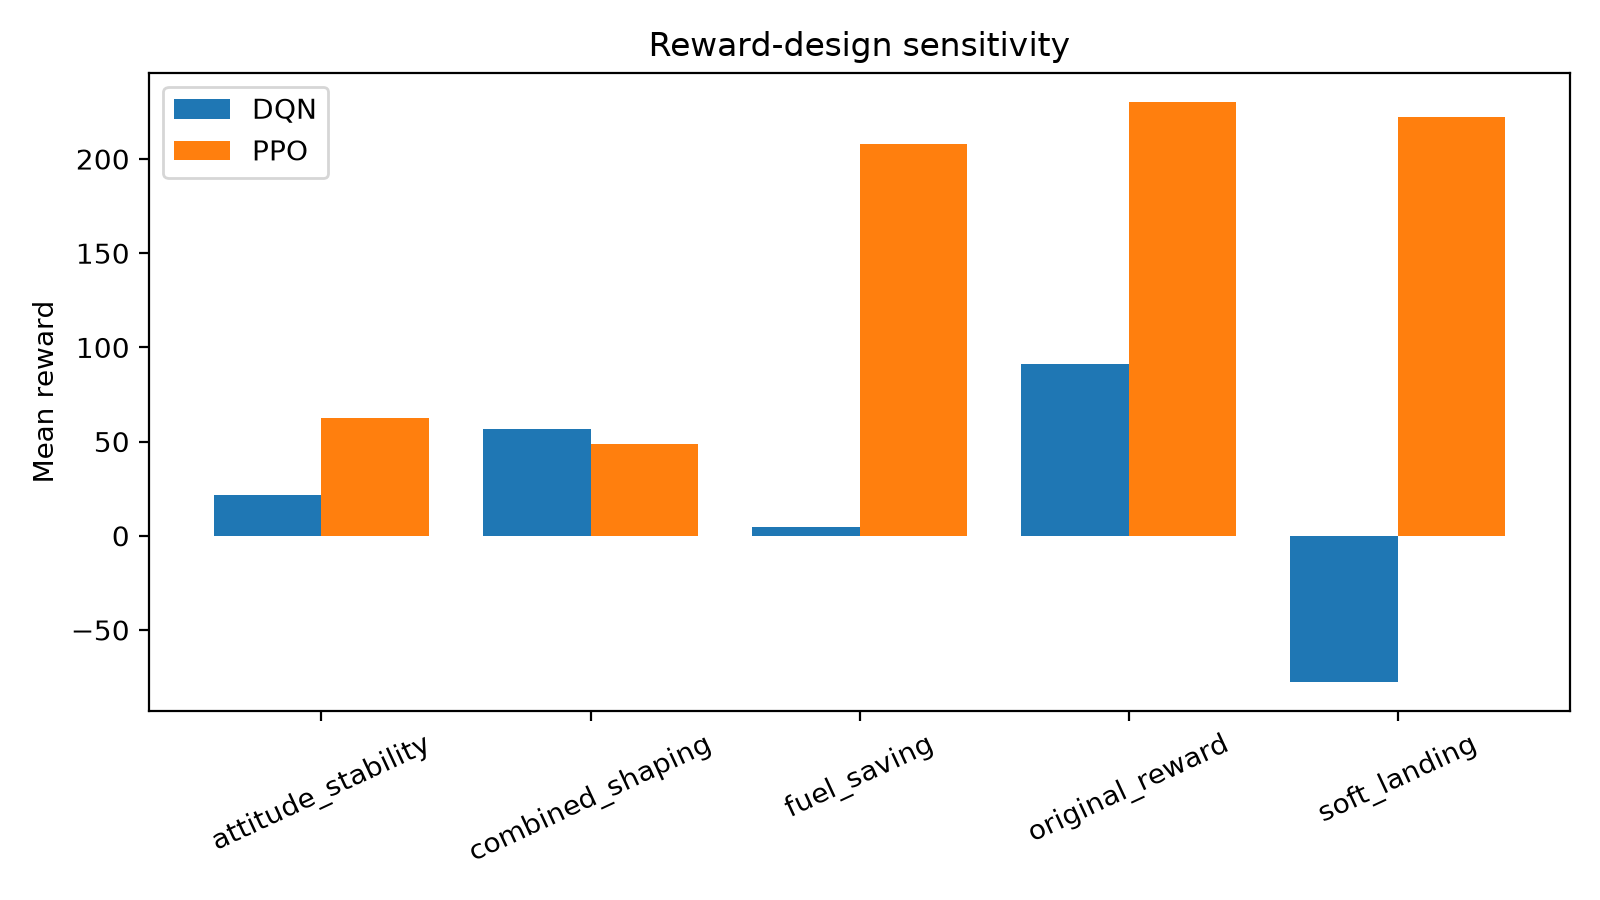
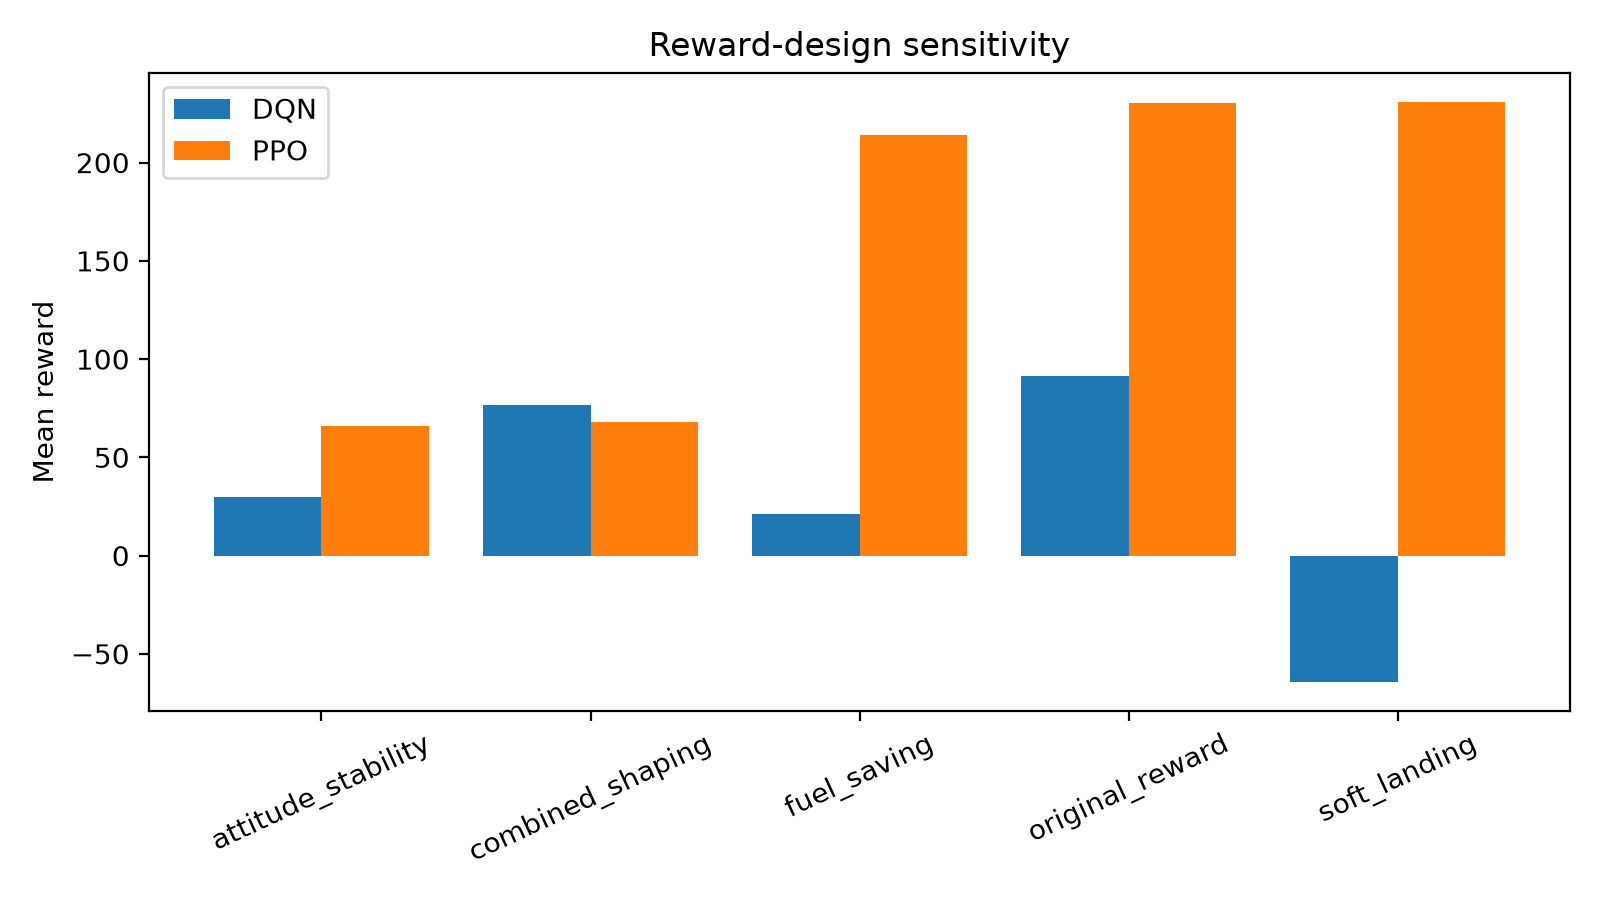
replotted things after reward sensitivity and robustness new results

diff --git a/07_plot_results.py b/07_plot_results.py
@@ -99,8 +99,8 @@ def reward_sensitivity_plots():
     if not f.exists():
         return
     df = pd.read_csv(f)
-    save_bar(df, "reward_case", "mean_reward", "Reward-design sensitivity", "Mean reward", "reward_sensitivity_reward.png", hue="algorithm")
-    save_bar(df, "reward_case", "mean_fuel_proxy", "Fuel use under reward shaping", "Mean fuel proxy", "reward_sensitivity_fuel.png", hue="algorithm")
+    save_bar(df, "reward_case", "mean_common_reward", "Reward-design sensitivity", "Mean reward", "reward_sensitivity_reward.png", hue="algorithm")
+    save_bar(df, "reward_case", "mean_control_use_proxy", "Fuel use under reward shaping", "Mean fuel proxy", "reward_sensitivity_fuel.png", hue="algorithm")
     save_bar(df, "reward_case", "mean_crash_rate", "Crash rate under reward shaping", "Crash rate", "reward_sensitivity_crash.png", hue="algorithm")
 
 
